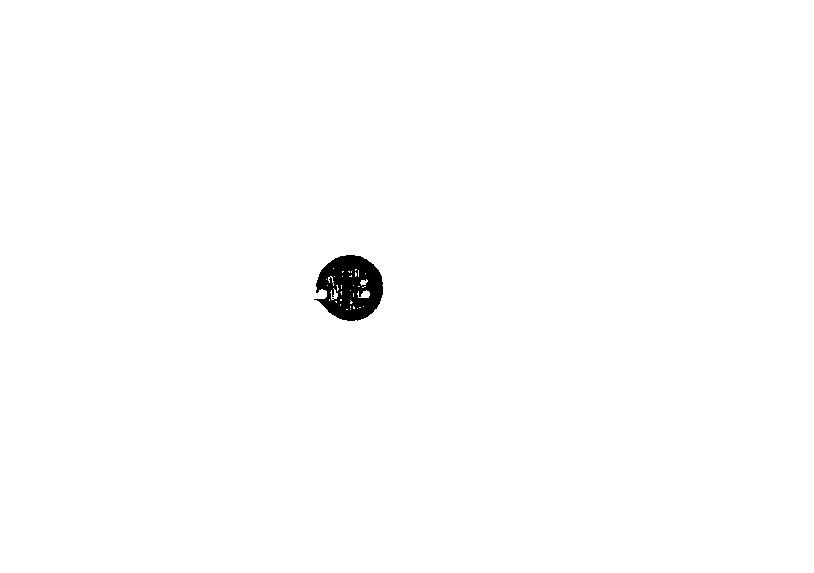
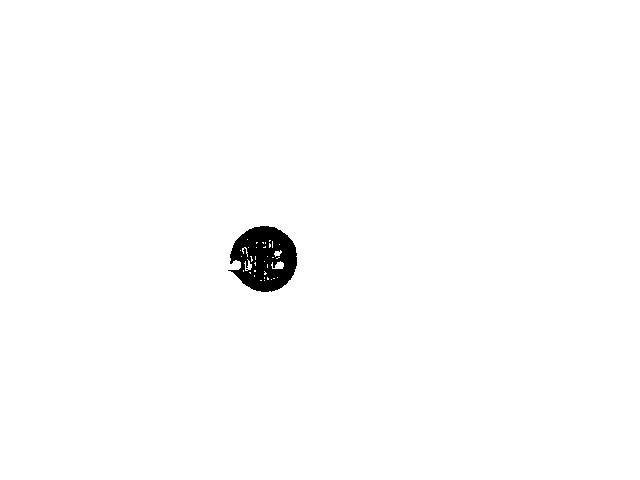
Fixing Images

Changed region(s): [[0.3438, 0.4375, 0.4688, 0.625]]

diff --git a/Exe.m b/Exe.m
@@ -1,4 +1,4 @@
-im = imread('000_01.jpg');
+im = imread('000_00.jpg');
 
 Padding_Length = 10;
 
@@ -23,3 +23,5 @@ Imcomplement_Logical_Image(1:end) = 1;
 Imcomplement_Logical_Image(Logical_Image_Connected_Components.PixelIdxList{Idx}) = 0;
 
 imshow(Imcomplement_Logical_Image);
+
+imwrite(Imcomplement_Logical_Image,'Processed_000_00.jpg');
